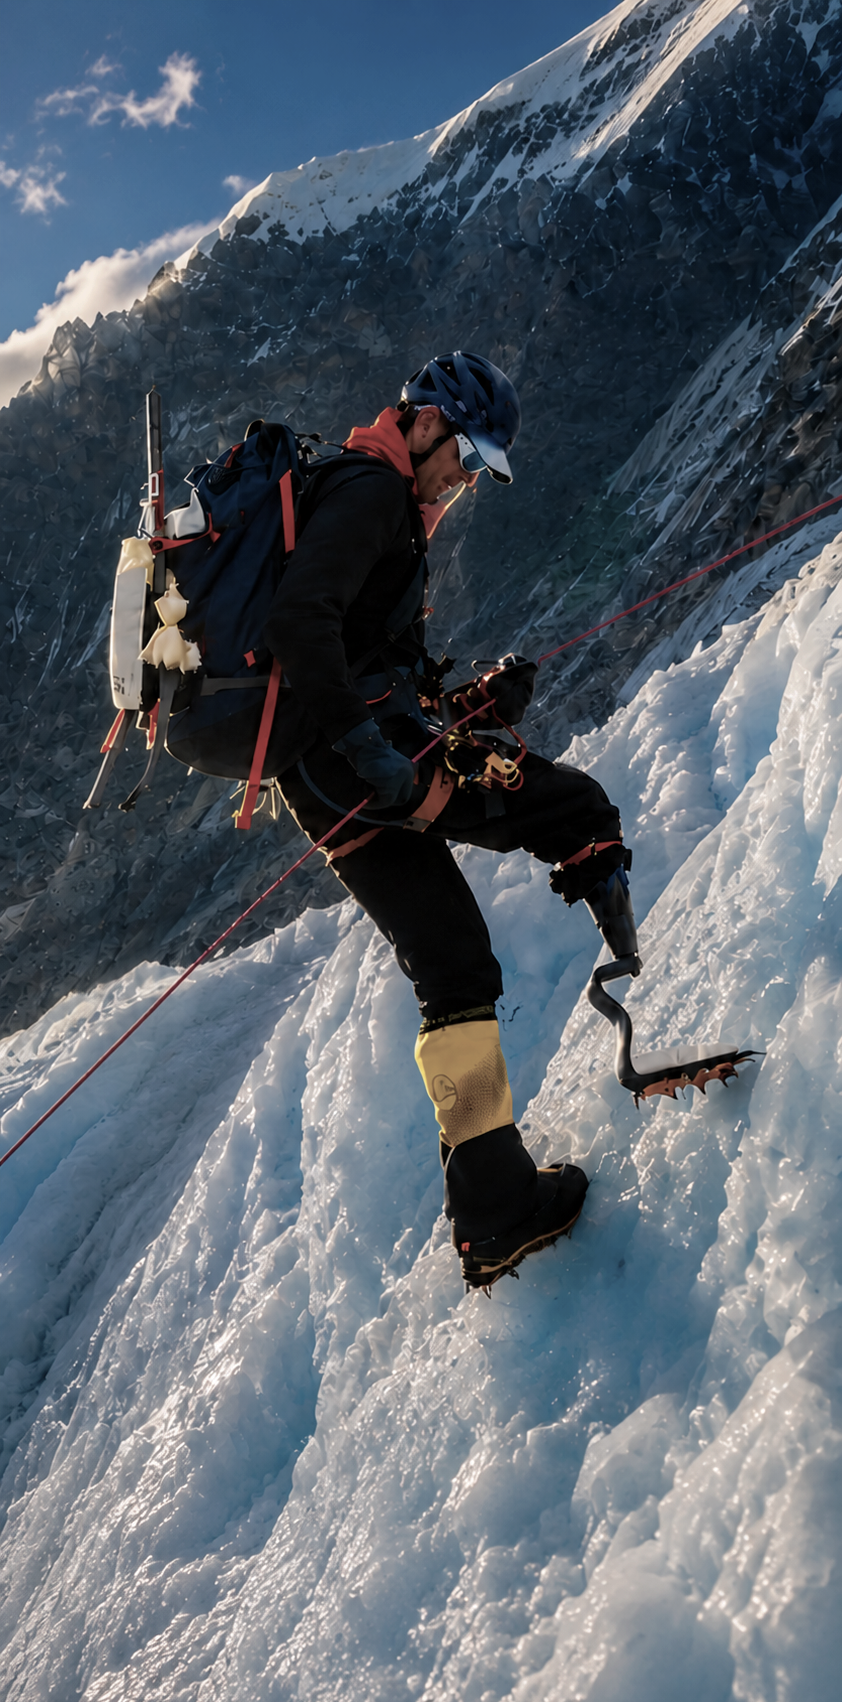
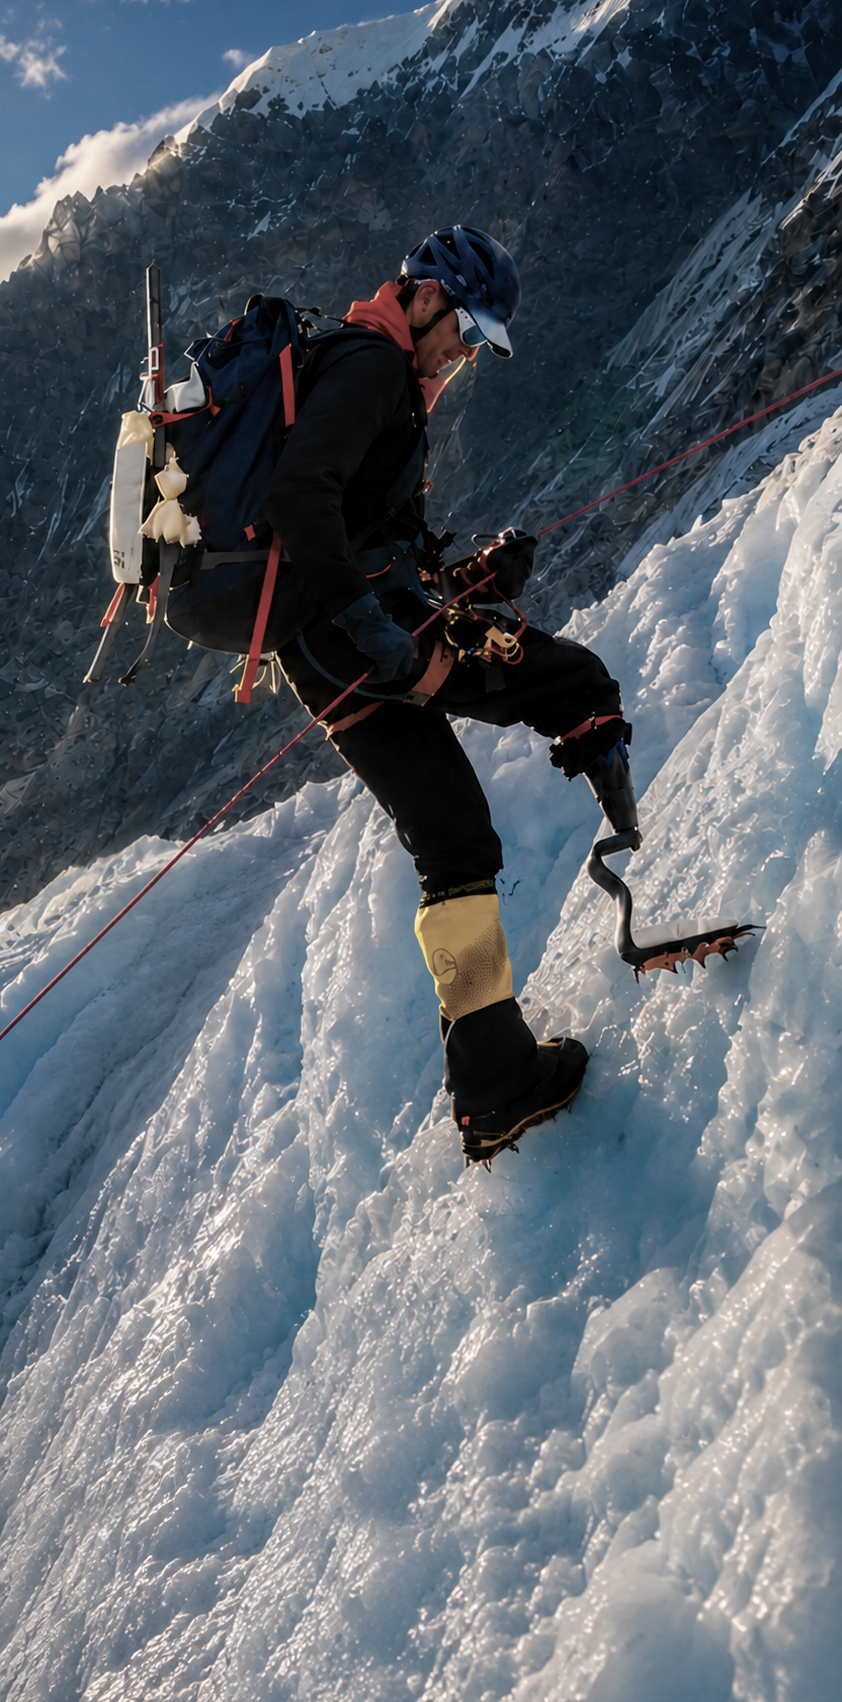
thrhr
thfth

diff --git a/css/style.css b/css/style.css
@@ -2827,7 +2827,7 @@ CONVERSION ZONE
 .cuspide-conversion-zone {
   background: linear-gradient(to bottom, #311706 45%, #271001 100%);
   color: white;
-  padding: 120px 0;
+  padding: 60px 0;
 }
 
 .cuspide-conversion-zone__wrapper{